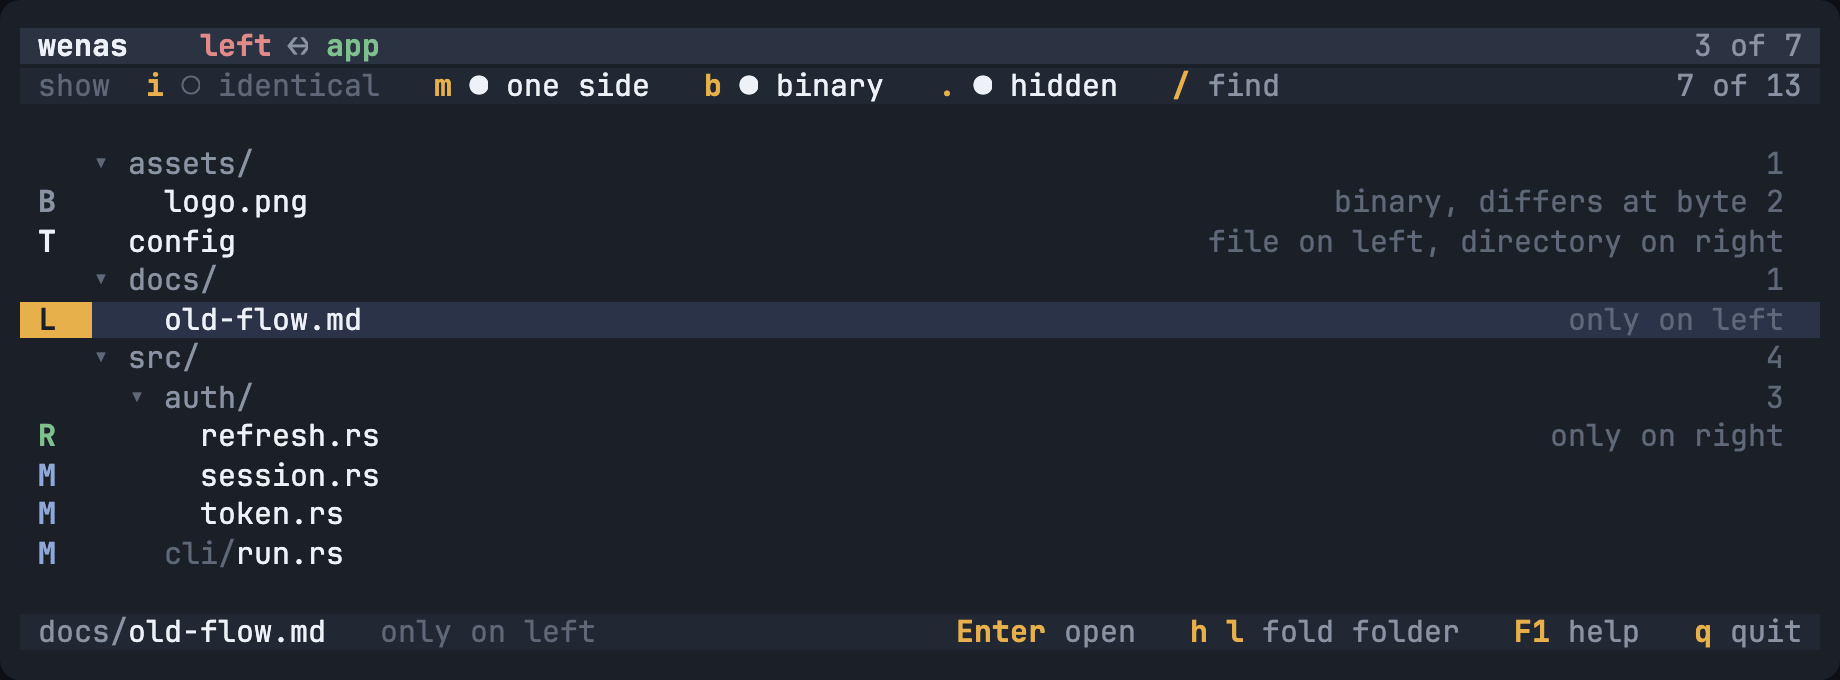
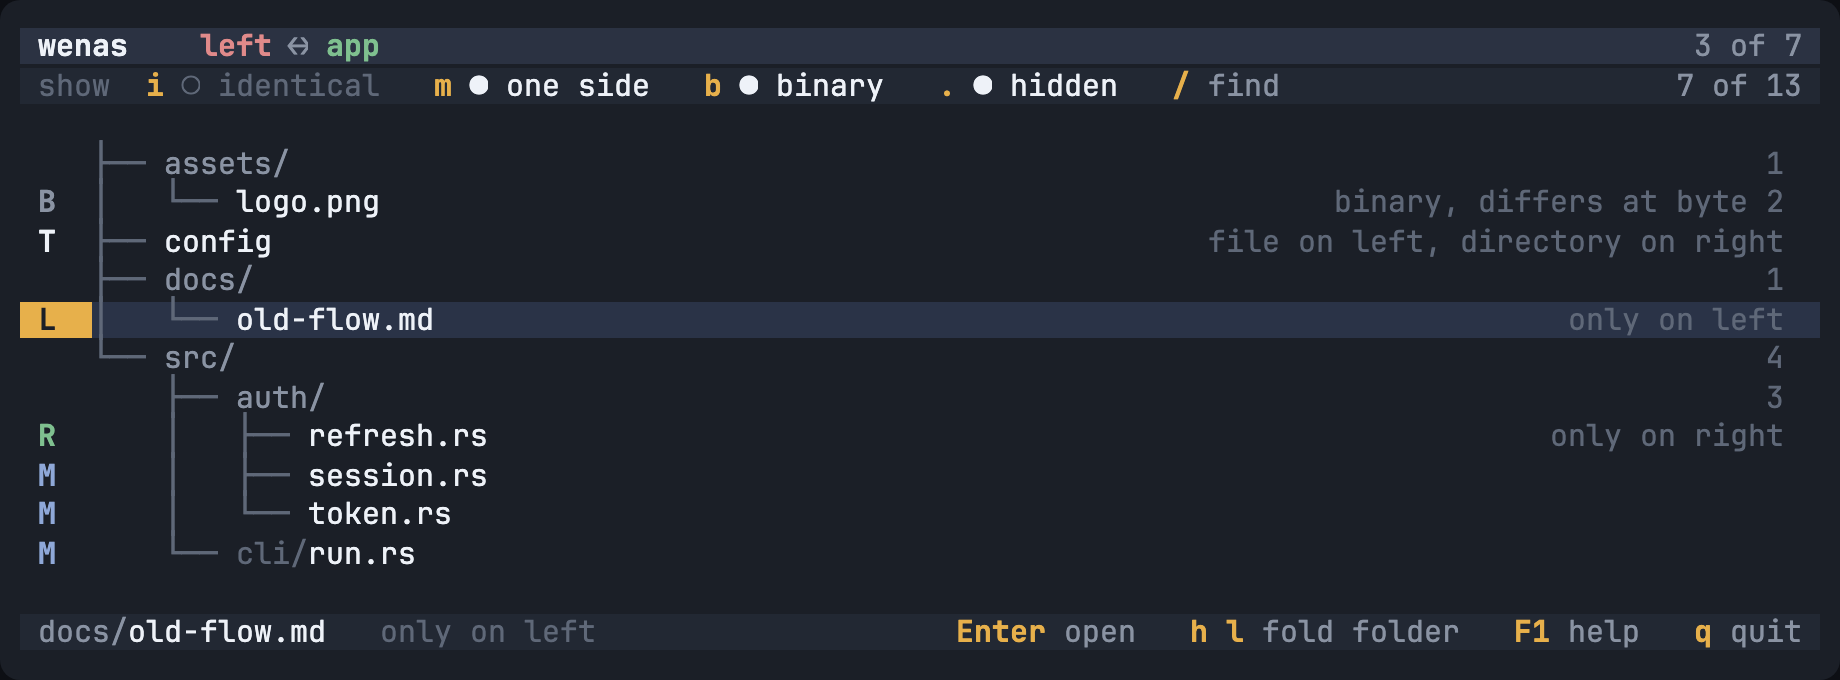
Bring back tree lines in the directory list (D49)
The list draws tree's ├── / └── / │ lines again instead of indentation
and ▾/▸. The lines follow the shown rows: a merged folder chain takes
its place from the chain's top folder, and a folded folder's line ends
in ─▸. Everything else from the four-zone design stays.

Changed region(s): [[0.062, 0.4015, 0.2788, 0.8338], [0.031, 0.2162, 0.2168, 0.3706]]

diff --git a/src/ui/dir.rs b/src/ui/dir.rs
@@ -453,15 +453,39 @@ impl DirView {
         None
     }
 
-    /// How far a row is indented: the folders above it with rows of their own.
-    fn shown_depth(&self, row: usize) -> usize {
-        let mut n = 0;
+    /// The topmost folder merged into a row, or the row itself: the one that
+    /// sits among its shown parent's children.
+    fn chain_top(&self, row: usize) -> usize {
+        let mut r = row;
+        while let Some(p) = self.rows[r].parent.filter(|&p| self.is_merged(p)) {
+            r = p;
+        }
+        r
+    }
+
+    /// The `tree`-style lines in front of a row's name: a `│` for every shown
+    /// folder above it that has more to come, then `├──` or `└──` for the row
+    /// itself (`├─▸` / `└─▸` for a folded folder). Rows merged into a chain
+    /// share one line, so a row is last when its chain's top is.
+    fn branches(&self, row: usize) -> String {
+        let own = if self.rows[self.chain_top(row)].last {
+            "└"
+        } else {
+            "├"
+        };
+        let tip = if self.is_folded(row) {
+            "─▸ "
+        } else {
+            "── "
+        };
+        let mut parts = vec![format!("{own}{tip}")];
         let mut p = self.shown_parent(row);
         while let Some(a) = p {
-            n += 1;
+            let more = !self.rows[self.chain_top(a)].last;
+            parts.push(if more { "│   " } else { "    " }.to_string());
             p = self.shown_parent(a);
         }
-        n
+        parts.iter().rev().map(String::as_str).collect()
     }
 
     /// The folders merged into a row, as a path ending in `/`.
@@ -1311,50 +1335,61 @@ fn draw_rows(buf: &mut Buffer, dir: &DirView, t: &Theme, area: Rect) {
             buf.set_stringn(note_x, y, &note, note_w as usize, note_style);
         }
 
-        // The name: indented by depth, folders marked open or folded.
+        // The name, after its tree lines. A deep tree gives up its leading
+        // lines first (marked `…`), then the name's start.
         let max_x = if note_w > 0 {
             note_x.saturating_sub(2)
         } else {
             area.width.saturating_sub(1)
         };
-        let depth = dir.shown_depth(row);
-        let mark = match node {
-            Node::Dir { .. } if dir.is_folded(row) => "▸ ",
-            Node::Dir { .. } => "▾ ",
-            Node::File(_) => "  ",
-        };
-        let indent = format!("{}{mark}", "  ".repeat(depth));
-        let mut x = LETTER_W;
-        let mark_style = if t.no_color { base } else { base.fg(t.dim) };
-        put(buf, &mut x, y, max_x, &indent, mark_style);
-        let prefix = dir.merged_prefix(row);
-        let room = max_x.saturating_sub(x) as usize;
-        match node {
-            Node::Dir { rel, .. } => {
-                let text = format!("{prefix}{}/", leaf_name(rel));
-                put(
-                    buf,
-                    &mut x,
-                    y,
-                    max_x,
-                    &clip_left(&text, room),
-                    base.fg(t.muted),
-                );
-            }
+        let lines_style = if t.no_color { base } else { base.fg(t.dim) };
+        let (name, name_style) = match node {
+            Node::Dir { rel, .. } => (format!("{}/", leaf_name(rel)), base.fg(t.muted)),
             Node::File(e) => {
                 let entry = &dir.entries[*e];
-                let name = leaf_name(&entry.rel);
                 let fg = if entry.status.differs() {
                     t.bright
                 } else {
                     t.dim
                 };
-                let pre = middle_cut(&prefix, room.saturating_sub(name.width()));
-                put(buf, &mut x, y, max_x, &pre, base.fg(t.dim));
-                let room = max_x.saturating_sub(x) as usize;
-                put(buf, &mut x, y, max_x, &clip_left(&name, room), base.fg(fg));
+                (leaf_name(&entry.rel), base.fg(fg))
             }
+        };
+        let prefix_style = match node {
+            Node::Dir { .. } => base.fg(t.muted),
+            Node::File(_) => base.fg(t.dim),
+        };
+        let parts = [
+            (dir.branches(row), lines_style),
+            (dir.merged_prefix(row), prefix_style),
+            (name, name_style),
+        ];
+        draw_clipped(buf, LETTER_W, y, max_x, &parts);
+    }
+}
+
+/// Draw styled parts in a row, keeping the end when they don't fit. The first
+/// part still shown starts with `…`, in its own style.
+fn draw_clipped(buf: &mut Buffer, x: u16, y: u16, max_x: u16, parts: &[(String, Style)]) {
+    let room = max_x.saturating_sub(x) as usize;
+    let total: usize = parts.iter().map(|(s, _)| s.width()).sum();
+    let mut skip = total.saturating_sub(room);
+    let mut cut = skip > 0;
+    let mut x = x;
+    for (text, style) in parts {
+        let w = text.width();
+        if skip >= w {
+            skip -= w;
+            continue;
         }
+        let shown = if cut {
+            cut = false;
+            clip_left(text, w - skip)
+        } else {
+            text.clone()
+        };
+        skip = 0;
+        put(buf, &mut x, y, max_x, &shown, *style);
     }
 }
 

diff --git a/tests/dir.rs b/tests/dir.rs
@@ -251,7 +251,7 @@ fn folders_fold_and_unfold() {
     assert_eq!(s.current, None, "Enter on a folder doesn't open anything");
     assert_eq!(s.dir.visible.len(), rows - 3);
     assert_eq!(s.dir.cursor, auth);
-    assert!(screen(&mut s, (110, 20)).contains("▸ auth/"));
+    assert!(screen(&mut s, (110, 20)).contains("└─▸ auth/"));
     assert!(s.dir.position_of(Path::new("src/auth/token.rs")).is_none());
     key(&mut s, 'l');
     assert_eq!(s.dir.visible.len(), rows);
@@ -312,21 +312,28 @@ fn folders_follow_entries_that_stream_in_later() {
         diff: wenas::ops::DiffPolicy::default(),
     };
     let mut s = Shell::new(dir, opts, (110, 20));
-    assert!(screen(&mut s, (110, 20)).contains(" M      a.rs"));
+    assert!(screen(&mut s, (110, 20)).contains(" M      └── a.rs"));
     s.dir.apply(entry("src/b.rs"));
-    s.dir.apply(entry("z.rs"));
     let v = screen(&mut s, (110, 20));
-    for line in ["    ▾ src/", " M      a.rs", " M      b.rs", " M    z.rs"] {
+    // b.rs arriving turns a.rs's `└──` into `├──`.
+    for line in ["    └── src/", " M      ├── a.rs", " M      └── b.rs"] {
         assert!(v.contains(line), "{line}\n{v}");
     }
     // A folder with one child shares its row; a second child gives it its own.
     s.dir.apply(entry("src/deep/er/c.rs"));
     let v = screen(&mut s, (110, 20));
-    assert!(v.contains(" M      deep/er/c.rs"), "{v}");
+    assert!(v.contains(" M      └── deep/er/c.rs"), "{v}");
     s.dir.cursor = s.dir.position_of(Path::new("src/deep/er/c.rs")).unwrap();
-    s.dir.apply(entry("src/deep/d.rs"));
+    s.dir.apply(entry("src/deep/er/d.rs"));
+    s.dir.apply(entry("z.rs"));
     let v = screen(&mut s, (110, 20));
-    for line in ["      ▾ deep/", " M        er/c.rs", " M        d.rs"] {
+    for line in [
+        "    ├── src/",
+        "    │   └── deep/er/",
+        " M  │       ├── c.rs",
+        " M  │       └── d.rs",
+        " M  └── z.rs",
+    ] {
         assert!(v.contains(line), "{line}\n{v}");
     }
     assert_eq!(
@@ -800,11 +807,11 @@ fn unreadable_entries_show_a_bang_and_the_reason() {
     let mut s = shell(&t);
     let v = body(&mut s);
     assert!(
-        v.contains(" !      server.pem") && v.contains("broken symlink"),
+        v.contains(" !  │   └── server.pem") && v.contains("broken symlink"),
         "{v}"
     );
     assert!(
-        v.contains(" M    ok.txt"),
+        v.contains(" M  └── ok.txt"),
         "the walk continued past the error:\n{v}"
     );
     open(&mut s, "fixtures/server.pem");
@@ -1012,9 +1019,9 @@ fn a_folded_chain_of_folders_keeps_its_own_row() {
     let t = tree();
     let mut s = shell(&t);
     // docs/ holds one listed file, but top-level folders always get a row.
-    assert!(body(&mut s).contains("    ▾ docs/"));
+    assert!(body(&mut s).contains("    ├── docs/"));
     select(&mut s, "src/auth/token.rs");
     key(&mut s, 'h');
     key(&mut s, 'h');
-    assert!(body(&mut s).contains("▸ auth/"));
+    assert!(body(&mut s).contains("└─▸ auth/"));
 }

diff --git a/docs/wenas-spec.md b/docs/wenas-spec.md
@@ -227,19 +227,19 @@ All hunk actions work the same way in both views. There are no pane headers; whe
  wenas    wso2is-5.11.0.396 ↔ wso2is-5.11.0.445   /repository/deployment/server/webapps   23 of 92
  show  i ○ identical    m ● one side only    b ○ binary    . ○ hidden files      / find   92 of 4,879 files  ·  4,787 identical hidden
 
-    ▾ accountrecoveryendpoint/                                                          8 changed
-      ▾ META-INF/maven/org.wso2.identity.apps/recovery-portal/                          2 changed
- M          pom.properties
- M        password-recovery.jsp
-    ▾ api#identity#auth#v1.1/                                                           3 changed
- M        WEB-INF/web.xml
- R        Resources_pt_BR.properties                                                only on right
- B        images/logo.png                                              binary, differs at byte 2,048
+    ├── accountrecoveryendpoint/                                                        8 changed
+    │   ├── META-INF/maven/org.wso2.identity.apps/recovery-portal/                      2 changed
+ M  │   │   └── pom.properties
+ M  │   └── password-recovery.jsp
+    └── authenticationendpoint/                                                         3 changed
+ M      ├── WEB-INF/web.xml
+ R      ├── Resources_pt_BR.properties                                              only on right
+ B      └── images/logo.png                                            binary, differs at byte 2,048
  authenticationendpoint/WEB-INF/…/i18n/Resources_fr_FR.properties   modified    Enter open   h l fold folder   ]f [f next, previous change   F1 help   q quit
 ```
 
-- Results appear as the walk finds them, as a tree in the walk's name order, indented two columns a level with `▾` (open) or `▸` (folded) before a folder. Folders appear only to hold listed files, so with identical files hidden a folder with no differences is not shown. Folder rows show how many changed files they hold.
-- Below the top level, a folder with one child shares that child's row, so a chain of such folders reads as one path (`META-INF/maven/…/`, `WEB-INF/web.xml`). This is decided when the list is drawn, so a sibling that streams in later gives the folder its own row again.
+- Results appear as the walk finds them, as a tree in the walk's name order, drawn with `tree`'s `├──` / `└──` / `│` lines (D46); a folded folder ends its line with `─▸`. Folders appear only to hold listed files, so with identical files hidden a folder with no differences is not shown. Folder rows show how many changed files they hold.
+- Below the top level, a folder with one child shares that child's row, so a chain of such folders reads as one path (`META-INF/maven/…/`, `WEB-INF/web.xml`). This is decided when the list is drawn, so a sibling that streams in later gives the folder its own row again. A merged row takes its place in the lines from the chain's top folder. A deep tree gives up its leading lines first (marked `…`), then the name's start.
 - `Enter` (or `h` / `l`) folds and unfolds a folder. Folding survives `i`. Moving keeps three rows of context above and below the selection.
 - The toolbar shows or hides four kinds of file, each with a key and a chip (`●` shown, `○` hidden) that a click flips:
   - `i` identical files (hidden by default);
@@ -595,3 +595,4 @@ CI runs on macOS and Linux.
 | D46 | The directory list is a tree (§6.3), drawn with `tree`'s `├──` / `└──` / `│` lines. The walk already emits entries in preorder (D31), so the tree is built as results stream in, with no buffering: each entry reuses the folders it shares with the previous one. Whether a row is the last of its siblings is tracked per parent and the lines are drawn from it at draw time, so a sibling that arrives later turns an earlier `└──` into `├──`. Folders are rows the cursor can stop on; `Enter`, `h` / `l` and a double-click fold them, and folding is kept by path so `i` and returning from a file keep it. Search still matches full file paths and unfolds what hides a match. A deep tree gives up its leading branch lines (marked `…`) before the name. |
 | D47 | The directory list has four filters (§6.3): identical, missing (one side only), binary and hidden (dot) files, each a key and a clickable chip in a bar on the row between the header and the list, which was blank, so the list loses no rows. They replace the header's `[identical hidden]` tag. A file is listed only if every kind it belongs to is shown. The binary flag is kept on the entry apart from its status, so it is known for identical files (`compare_files` already sniffs both starts) and one-sided files (sniffed on the pool, 8 KB each, so a large one-sided tree doesn't hold up the walk), and it survives a save that makes a file identical. Hidden means a path part starting with `.`, not the macOS hidden flag, which would cost a `stat` per entry. Chips are placed by a function of the width shared by drawing and clicking, so a click always hits what is drawn; chips that don't fit are left out. Filtering stays in the list: the file view compares one pair and has nothing to filter. |
 | D48 | The UI follows the four-zone design (§6): title bar, toolbar, content, status bar, each always on its own row, separated by surfaces (`title_bg` › `panel_bg` › content) rather than rules. The header's two full paths became a title that shows only what tells the sides apart (`Roots`: the last differing path part of each, their shared start once, and the shared tail), because temp-dir roots carry no information. Settings moved from the status bar to the toolbar as key, label, value; the status bar's left reads the cursor's state in words instead of `1/4`. One layout source (`chrome`: `BODY_Y`, `CHROME_ROWS`, the width tiers, `toolbar_items`, `chip_spans`) serves drawing and clicking. The tree dropped `tree`'s lines (D46) for indentation and `▾`/`▸`, and merges single-child folder chains; whether a folder merges depends on later siblings, so `visible` is recomputed once per batch of scan results rather than appended to. `z` folds unchanged runs (`App::folds`, keyed by row, each keeping the run's first line so anchors survive the toggle); it takes `z` from the old `zh`/`zl` aliases, which `←`/`→` cover. `]f`/`[f` and the back control are new outcomes the shell acts on, including when they come from a click. |
+| D49 | The directory list keeps D46's `tree` lines rather than D48's indentation and `▾`: the lines show at a glance which rows are siblings and where a folder ends. The lines follow the shown rows, not the raw folders: a row is the last of its siblings when the top of its merged chain is, and each shown folder above contributes `│   ` or `    `. A folded folder's line ends in `─▸` instead of carrying a separate marker. |
